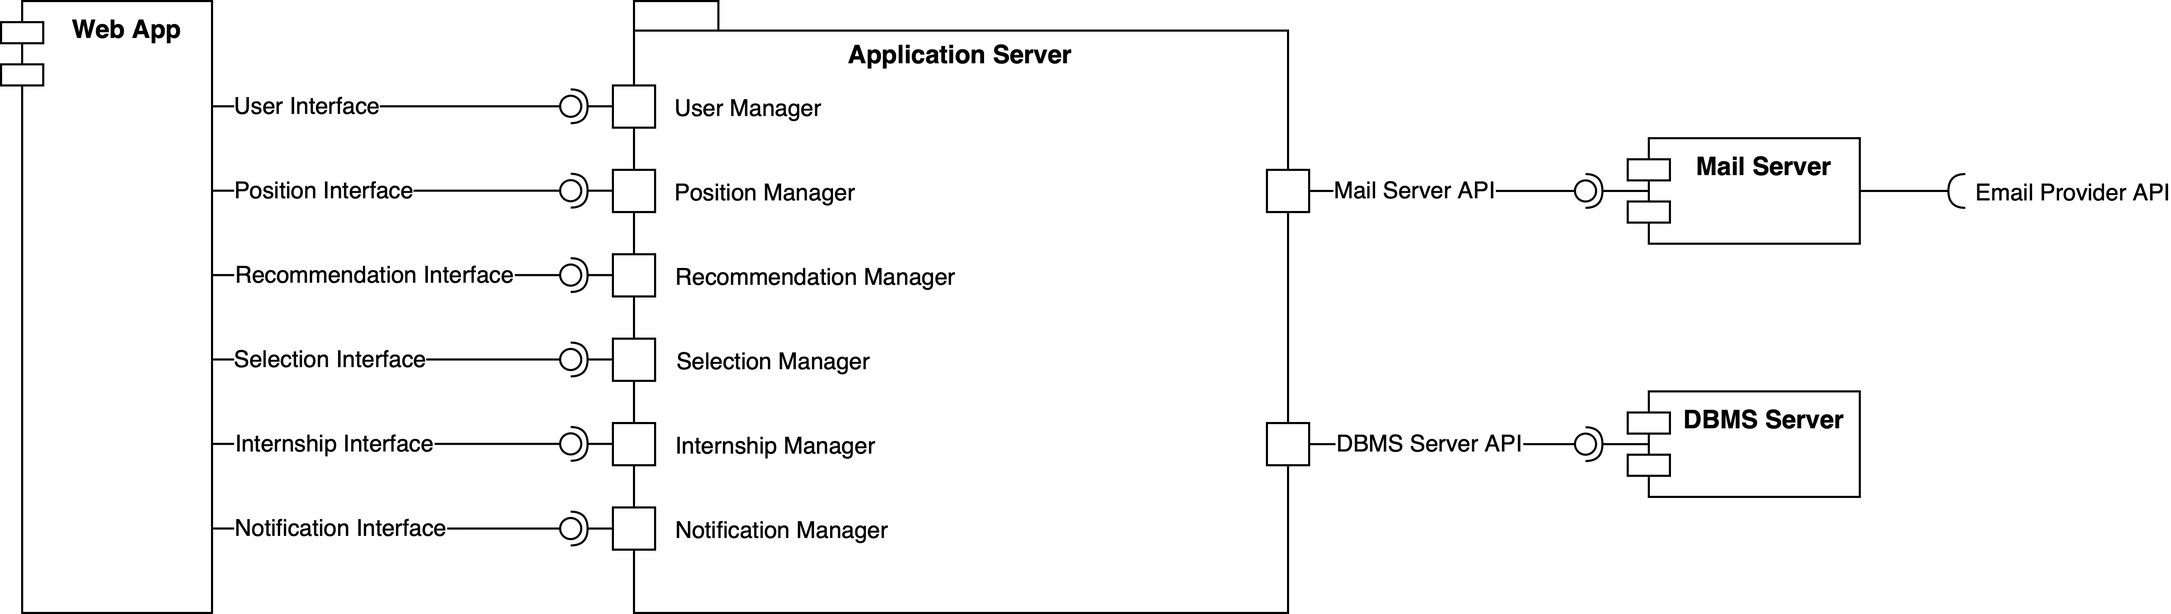
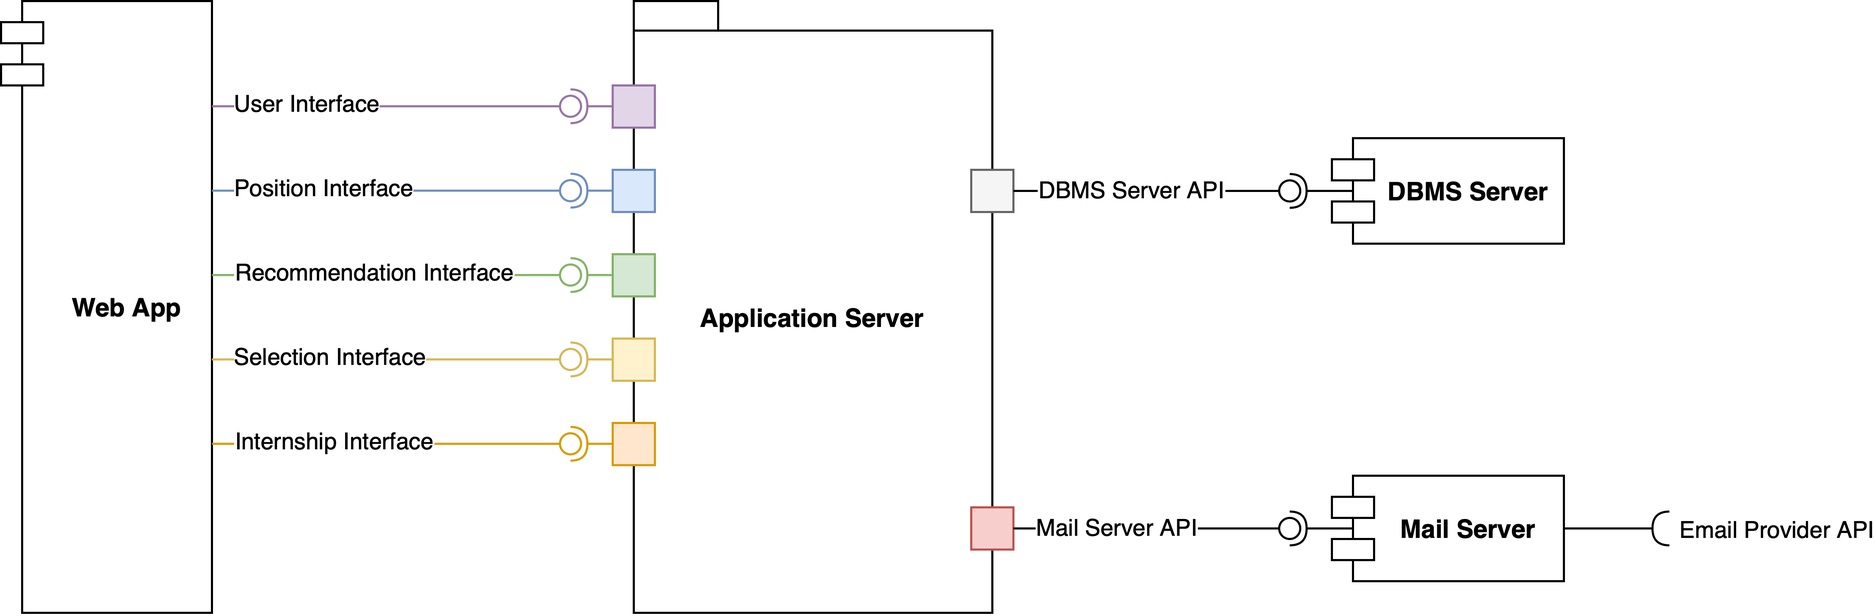
DD: Add low-level component view

diff --git a/DD/chapters/2-architectural-design.tex b/DD/chapters/2-architectural-design.tex
@@ -7,28 +7,28 @@ The chapter concludes with a discussion of chosen architectural styles, patterns
 \section{Overview}
 Students\&Companies requires an architecture that can efficiently handle the complex interactions between students, companies and universities while ensuring system scalability and data security.
 The platform adopts a three-tier client-server architecture, separating presentation, application logic and data management into distinct layers.
-This section provides an overview of the application of this architecture to the problem at hand, while a more general discussion of styles and patterns belongs in later sections.
+This section provides an overview of the application of this architecture to the problem at hand, while a more general discussion of the architectural style belongs in later sections.
 
 \subsubsection{Presentation Tier}
-At the client tier, the web app serves as the user interface, allowing students, companies and universities to access S\&C through their browsers.
-The app is designed to be responsive, ensuring accessibility across various devices while maintaining a consistent user experience.
+At the presentation tier, the web app serves as the user interface, allowing S\&C to be accessed by users through their browsers.
+The app is responsive, ensuring accessibility across various devices while maintaining a consistent user experience.
 
 \subsubsection{Application Tier}
-The middle tier consists of three server components.
+The application tier consists of three server components.
 
 The web server handles incoming client requests, managing user sessions and providing load balancing capabilities to distribute traffic effectively across multiple instances of the application server.
-The AS contains the core business logic, processing user requests to coordinate the entire internship lifecycle from application to completion.
+The application server contains the core business logic, processing user requests to coordinate the entire internship lifecycle from application to completion.
 
-The mail server manages the email workflow, determining when to send notifications for registration confirmations, new matches, selection updates or internship comments.
-For actual email delivery, the MS integrates with an external email provider that handles the delivery infrastructure, ensuring reliable communication reaches users' inboxes.
+The mail server manages the email workflow, determining when to send notifications for registration confirmations, selection updates or internship comments.
+For actual email delivery, the mail server integrates with an external email provider that handles the delivery infrastructure, ensuring reliable communication.
 
 \subsubsection{Data Tier}
 The data tier employs a DBMS server to store and manage all system data.
 This includes user profiles, internship positions, ongoing matches, selection processes and internship records.
-The DS provides structured data storage with built-in mechanisms for maintaining data integrity through transaction management and constraint enforcement, optimizing query performance through indexing and caching, and implementing access controls and encryption for sensitive user data.
+The DBMS server provides structured data storage with mechanisms for maintaining integrity through transaction management and constraint enforcement, optimizing query performance through indexing and caching, and implementing access controls and encryption for sensitive user data.
 
 Overall, this architecture enables efficient data flow while maintaining scalability and security.
-When a user interacts with the WA, their request flows through the WS to one of the AS instances, which processes it using data from the DS and triggers notifications through the MS when necessary.
+When a user interacts with the web app, their request flows through the web server to one of the application server instances, which processes it leveraging the data from the DBMS server and triggers notifications through the mail server when necessary.
 
 \begin{figure}[h]
     \centering
@@ -38,12 +38,12 @@ When a user interacts with the WA, their request flows through the WS to one of 
 
 \section{Component View}
 This section illustrates the logical organization of Students\&Companies by breaking down the system into its major software modules and mapping their relationships.
-Using a series of increasingly detailed UML diagrams, the component view first presents a high-level diagram showing the main system elements and their key interactions.
-It then dives into individual components, examining their internal structures, responsibilities and interfaces, with particular attention to how they collaborate to implement the platform's core functionality.
+Using a series of increasingly detailed UML diagrams, the component view first presents a high-level view showing the system elements and their interactions.
+It then dives into individual components, examining their low-level structures, responsibilities and interfaces, with particular attention to how they collaborate to implement the platform's functionality.
 
-\subsection{High-Level Diagram}
+\subsection{High-Level View}
 The high-level diagram below shows the components of Students\&Companies and their interactions.
-The system exposes six distinct interfaces to the Web App, each corresponding to a manager responsible for a specific domain of functionality.
+The system exposes six distinct interfaces to the web app, each corresponding to a specific domain of functionality that will be further discussed in the next section.
 
 \begin{figure}[h]
     \centering
@@ -51,42 +51,116 @@ The system exposes six distinct interfaces to the Web App, each corresponding to
     \caption{High-level component view}
 \end{figure}
 
+\subsection{Low-Level View}
+The low-level view below builds upon the high-level diagram above by providing a detailed representation of the internal architecture of the application server.
+The codebase is structured according to the model-view-controller pattern.
+In this architecture, the model acts as the core data structure of the system, representing and managing the content of the database.
+In turn, managers act as controllers, bridging the model and the external interfaces, which serve as the entry points for users, ensuring a clean separation of concerns that makes the system modular, scalable and maintainable.
+
+\begin{figure}[ht]
+    \centering
+    \includegraphics[width=16cm]{images/component-view/low-level.png}
+    \caption{Low-level component view}
+\end{figure}
+
+Each manager is organized into multiple submanagers, which encapsulate specific functionalities within its domain.
+These submanagers allow the managers to remain focused on their broader responsibilities while delegating finer tasks.
+The following subsections delve into each manager, describing its role and breaking down its submanagers.
+
 \subsubsection{User Manager}
-The User Interface links to the User Manager, which is responsible for registration, authentication and profile management.
-When users sign up, the User Manager coordinates with the Mail Server API to send confirmation emails and stores encrypted credentials through the DBMS Server API.
-It also enables users to update their profiles, including uploading CVs, specifying preferences and managing account settings.
+The user interface serves as the bridge between users and the user manager, channeling requests related to account creation, authentication and management.
+
+\begin{figure}[ht]
+    \centering
+    \includegraphics[width=11cm]{images/managers/user.png}
+    \caption{User manager}
+\end{figure}
+
+The user signup submanager handles user onboarding by validating fields and enforcing rules like password length.
+It securely integrates new users into the system while delegating confirmation emails to the notification manager.
+
+The user login submanager supports user logins, validating credentials and issuing tokens for secure session management.
+It also ensures expired tokens are revoked.
+
+The user management submanager supports users in updating their profiles, including editing preferences and uploading CVs, validating and storing changes.
+Additionally, it provides an option for account deletion.
 
 \subsubsection{Position Manager}
-The Position Interface interacts with the Position Manager, enabling companies to post internship positions and students to search for them.
-Companies use this interface to specify position details such as tasks, application domains, required skills, terms and additional benefits, all securely stored through the DBMS Server API.
-Students can search for positions using keywords or by applying filters such as domain or location, with the manager retrieving these records from the DBMS Server API.
+The position interface acts as the portal for managing internship postings, funneling requests from both companies and students to the position manager.
+This manager ensures that opportunities are validated, maintained and accessible to all relevant users.
+
+\begin{figure}[h]
+    \centering
+    \includegraphics[width=11cm]{images/managers/position.png}
+    \caption{Position manager}
+\end{figure}
+
+The position posting submanager allows companies to post new positions, validating details such as required skills and terms.
+
+The position search submanager empowers students to search for opportunities through keywords.
+It ranks and prioritizes results, highlighting the most relevant options.
+
+The position management submanager supports companies in modifying existing position postings, ensuring all changes are logged, including updates in their status.
 
 \subsubsection{Recommendation Manager}
-The Recommendation Interface connects to the Recommendation Manager, which powers the platform's matching and recommendation capabilities.
-Beyond simple keyword searches, this manager leverages statistical analysis to compare students' profiles with position descriptions, generating recommendations for both students and companies.
-These recommendations are stored and retrieved through the DBMS Server API.
-To facilitate communication, the Recommendation Manager uses the Mail Server API to notify students and companies about new recommendations, ensuring proactive and timely engagement with suitable matches.
+The recommendation interface fuels the platform’s personalized experience by connecting users with tailored opportunities.
+The recommendation manager transforms system data into actionable suggestions, enhancing engagement.
+
+\begin{figure}[h]
+    \centering
+    \includegraphics[width=12cm]{images/managers/recommendation.png}
+    \caption{Recommendation manager}
+\end{figure}
+
+The recommendation match submanager applies statistical analysis to generate recommendations by comparing user profiles and position descriptions. It also ensures users are informed about new recommendations by working with the notification manager.
+
+The recommendation feedback submanager tracks feedback forms to refine future suggestions, improving relevance over time.
 
 \subsubsection{Selection Manager}
-The Selection Interface links to the Selection Manager, which coordinates the selection workflow between companies and students.
-This manager handles the creation and management of structured questionnaires submitted by companies to evaluate students, storing these forms and their responses through the DBMS Server API, and it manages the scheduling of interviews.
-Throughout the selection process, this manager tracks the status of applications, logging and updating their progression in the DBMS Server.
-Any changes in selection status, such as invitations for interviews or feedback from companies, are communicated to relevant parties using the Mail Server API to ensure everyone remains informed and up to date.
+The selection interface connects university students and companies through the selection process, channeling application and interview workflows to the selection manager.
+
+\begin{figure}[h]
+    \centering
+    \includegraphics[width=11cm]{images/managers/selection.png}
+    \caption{Selection manager}
+\end{figure}
+
+The selection application submanager oversees the lifecycle of applications, from initial submission to final outcome.
+It makes sure that both students and companies are informed throughout the workflow by integrating with the notification manager.
+
+The selection interview submanager coordinates interviews by validating availability and resolving conflicts, ensuring schedules are efficiently managed.
+
+The selection questionnaire submanager supports companies in evaluating candidates by managing the distribution and storage of questionnaires.
 
 \subsubsection{Internship Manager}
-The Internship Interface connects to the Internship Manager, which oversees all active internships.
-This manager allows students, companies and universities to monitor progress, share updates, submit reports and raise concerns through a collaborative interface.
-Progress reports, feedback logs and other internship data are stored and retrieved using the DBMS Server API.
-When an issue or concern is raised, the manager notifies the relevant parties, including universities, through the Mail Server API, ensuring swift communication.
+The internship interface facilitates collaboration among students, companies and universities, channeling related workflows to the internship manager.
+This manager monitors ongoing internships, ensuring transparency.
+
+\begin{figure}[h]
+    \centering
+    \includegraphics[width=11cm]{images/managers/internship.png}
+    \caption{Internship manager}
+\end{figure}
+
+The internship progress submanager records status updates, providing all stakeholders with insights into internship progress.
+Additionally, it collaborates with the notification manager to send update emails.
+
+The internship comment submanager coordinates the posting of comments when progress is reported or a concern is raised.
 
 \subsubsection{Notification Manager}
-The Notification Interface is responsible for handling asynchronous communication from the Notification Manager to users.
-This manager ensures the delivery of updates, including notifications about new matches identified by the Recommendation Manager, changes in the selection process from the Selection Manager or updates on the internship progress through the Internship Manager.
-Notifications are prepared by other managers and delivered to users through the Notification Manager, which uses the Mail Server API for communication.
-For tracking and auditing purposes, this manager also logs all notifications into the DBMS using the DBMS Server API, ensuring a record of all communications for reference when needed.
+The notification interface connects other managers to the notification manager, which acts as the centralized hub for delivering all emails.
+By consolidating communication, it ensures consistency and reliability across the system.
 
-\subsection{Low-Level Diagram}
-\subsection{Managers}
+\begin{figure}[h]
+    \centering
+    \includegraphics[width=11cm]{images/managers/notification.png}
+    \caption{Notification manager}
+\end{figure}
+
+The notification formatting submanager prepares emails by structuring data provided by other managers, ensuring clarity for the recipient.
+
+The notification delivery submanager communicates with the mail server API to send notifications, tracking delivery and retrying failed attempts to maintain reliability.
+
 \section{Deployment View}
 \section{Runtime View}
 \section{Component Interfaces}
@@ -96,13 +170,12 @@ Understanding these foundational patterns is crucial for developers working on t
 
 \subsubsection{Client-Server Architecture}
 The system's foundation rests on a client-server architecture, which separates systems into service requesters, called clients, and service providers, called servers.
-This separation enables the user interface to evolve independently from data processing and storage, while centralizing resource management on the server side.
-Developers can thus focus on their specific domain, either crafting responsive user experiences or implementing robust server-side logic.
+This separation enables the user interface to evolve independently from data processing and storage, while centralizing resource management on the server.
+Developers can thus focus on their domain, either crafting responsive user experiences or implementing robust business logic.
 
-Modern applications refine this pattern through tiers, logical groupings of related functionality.
+Modern applications refine this pattern through tiers, which are logical groupings of related functionality.
 A three-tier architecture divides the application into three distinct layers: a presentation tier that handles the user interface, an application tier that processes business logic and a data tier that manages storage.
-This separation gives developers clear boundaries for their work: interface developers can update the presentation tier without considering database queries, application developers can enhance business logic without touching the user interface and database administrators can optimize storage without impacting other tiers.
-Each team works independently, reducing development bottlenecks and simplifying maintenance.
+This separation gives developers clear boundaries for their work and lets teams works independently, reducing development bottlenecks and simplifying maintenance.
 
 \subsubsection{REST Architecture}
 REST (Representational State Transfer) guides how these tiers communicate over the web.
@@ -111,11 +184,11 @@ Its core principle of statelessness means that servers maintain no information a
 Instead, each client request must contain all necessary context.
 This architectural choice significantly impacts development: backend developers need not manage complex session states, system administrators benefit from straightforward load balancing since any server can handle any request and cache developers can optimize performance by focusing solely on request parameters rather than server state.
 
-\subsubsection{Event-Driven Architecture}
-The system also employs an event-driven architecture, organizing certain components around event production and consumption rather than direct coupling.
-When a company posts a new internship position, for example, the system generates an event rather than directly notifying students.
-This architectural choice lets developers add new features without modifying existing code, as they simply subscribe new components to relevant events.
-The pattern particularly shines in notifications and real-time updates, providing a clean separation between event producers and consumers.
+\subsubsection{MVC Pattern}
+The Model-View-Controller (MVC) pattern organizes software into three interconnected components, each with distinct responsibilities.
+The model represents the core data structure, encapsulating the database, while the view handles user interaction and presentation.
+Controllers act as intermediaries, processing user requests to run business logic and coordinate workflows.
+This separation of concerns enhances scalability, modularity and maintainability, allowing developers to focus on specific aspects of the system without impacting others, ultimately fostering efficient collaboration among teams.
 
 \section{Other Design Decisions}
 While architectural styles and patterns provide the system's foundation, many other critical design decisions shape its implementation.
@@ -126,15 +199,7 @@ The deployment strategy embraces horizontal scaling, running multiple applicatio
 This approach requires developers to write stateless code that works across instances, but provides significant benefits: the system continues functioning even if some instances fail, resource allocation becomes more flexible as administrators can add or remove instances based on demand and load balancing becomes straightforward since any instance can handle any request.
 
 \subsubsection{Security Implementation}
-Security permeates every aspect of the design through multiple complementary layers.
-All client-server communication uses HTTPS encryption, protecting data in transit.
-Sensitive user information receives additional encryption in the database.
-Session management relies on secure, time-limited authentication tokens rather than storing session data server-side.
-These decisions guide security-related development work, from implementing proper token handling to ensuring sensitive data never appears in logs.
+Security permeates every aspect of the design through multiple complementary layers: all client-server communication uses HTTPS encryption to protect data in transit, sensitive information receives additional encryption in the database and session management relies on time-limited tokens rather than storing session data server-side.
 
 \subsubsection{Data Management}
-Data management emphasizes both integrity and performance.
-The database implements transaction management to maintain consistency even during concurrent operations.
-Constraint enforcement at the database level catches data validity issues early.
-Performance optimization through strategic indexing and caching improves response times.
-These choices influence how developers interact with data, as they must properly manage transactions, respect constraints and consider query performance during development.
+Data management emphasizes both integrity and performance: the database implements transaction management to maintain consistency even during concurrent operations, constraint enforcement catches validity issues early and performance optimization through strategic indexing and caching improves response times.

diff --git a/DD/chapters/1-introduction.tex b/DD/chapters/1-introduction.tex
@@ -1,4 +1,4 @@
-This chapter provides essential background information about the design document, including its purpose, scope and organizational structure.
+This chapter provides essential background information about the design document, including its purpose, scope and structure.
 It also introduces key terminology and references needed for understanding the technical content that follows.
 
 \section{Purpose}
@@ -9,11 +9,11 @@ It outlines the design patterns, technical interfaces and deployment strategies 
 Additionally, it establishes a clear roadmap for implementation and testing phases, ensuring that the final system aligns with both technical requirements and business objectives.
 
 \section{Scope}
-Students\&Companies is a platform designed to bridge the gap between academic education and practical workplace experience.
+Students\&Companies is designed to bridge the gap between academic education and practical workplace experience.
 The platform facilitates the internship matching process by enabling students to create detailed profiles with CVs and preferences, while companies can post comprehensive internship opportunities including project details, required skills and terms.
-The platform features personalized recommendations through statistical analysis, manages the entire selection process from interviews to final outcome and provides tools for monitoring ongoing internships.
-Additionally, universities can oversee their students' experiences, ensuring quality and addressing any concerns that arise during the internships.
-For a comprehensive overview of the system's requirements and functionalities, please refer to the requirements analysis and specification document \cite{carraracurrodossi2024}.
+S\&C features personalized recommendations through statistical analysis, manages the entire selection process from interviews to final outcome and provides tools for monitoring ongoing internships.
+Additionally, universities can oversee the progress of their students, ensuring quality and addressing concerns that arise during the internships.
+For a comprehensive overview of the platform's functionalities and requirements, please refer to the requirements analysis and specification document \cite{carraracurrodossi2024}.
 
 \section{Glossary}
 This table contains the key definitions, acronyms and abbreviations used in the document.
@@ -31,11 +31,6 @@ This table contains the key definitions, acronyms and abbreviations used in the 
     CV & Curriculum vitae \\ \hline
     Match & A US and a CO declare interest in each other \\ \hline
     Contact & Selection process and internship progress \\ \hline
-    WA & Web app \\ \hline
-    WS & Web server \\ \hline
-    MS & Mail server \\ \hline
-    EP & Email provider \\ \hline
-    DS & DBMS server \\ \hline
 \caption{Glossary}
 \end{longtable}
 
@@ -44,7 +39,7 @@ The document follows Professor Di Nitto's project assignment structure \cite{din
 
 \section{Document Structure}
 This document describes the design specification for Students\&Companies, following an architecture-centric approach that progresses from system-wide design decisions to specific implementation details.
-It is organized into seven chapters, each providing increasingly detailed technical information needed for system implementation.
+It is organized into seven chapters, each providing increasingly detailed technical information needed for implementation.
 
 \subsubsection{Introduction}
 The first chapter establishes the foundation of the design document through purpose and scope definitions, provides a comprehensive glossary, lists reference documents and explains the document's organization.
@@ -61,5 +56,5 @@ The fourth chapter establishes clear links between the requirements from the req
 \subsubsection{Implementation, Integration and Test Plan}
 The fifth chapter provides a comprehensive roadmap for system realization, detailing the implementation order of components, their integration strategy and the testing methodology to ensure system quality.
 
-\subsubsection{Effort Spent}
-The sixth chapter quantifies each group member's time investment in developing the design document.
+\subsubsection{Workload}
+The sixth chapter quantifies each writer's time investment in the design document.

diff --git a/DD/template/config.tex b/DD/template/config.tex
@@ -1,5 +1,3 @@
-\newcommand\numfontsize{\@setfontsize\Huge{200}{60}}
-
 \newcommand{\hsp}{\hspace{0pt}}
 
 \makeatletter
